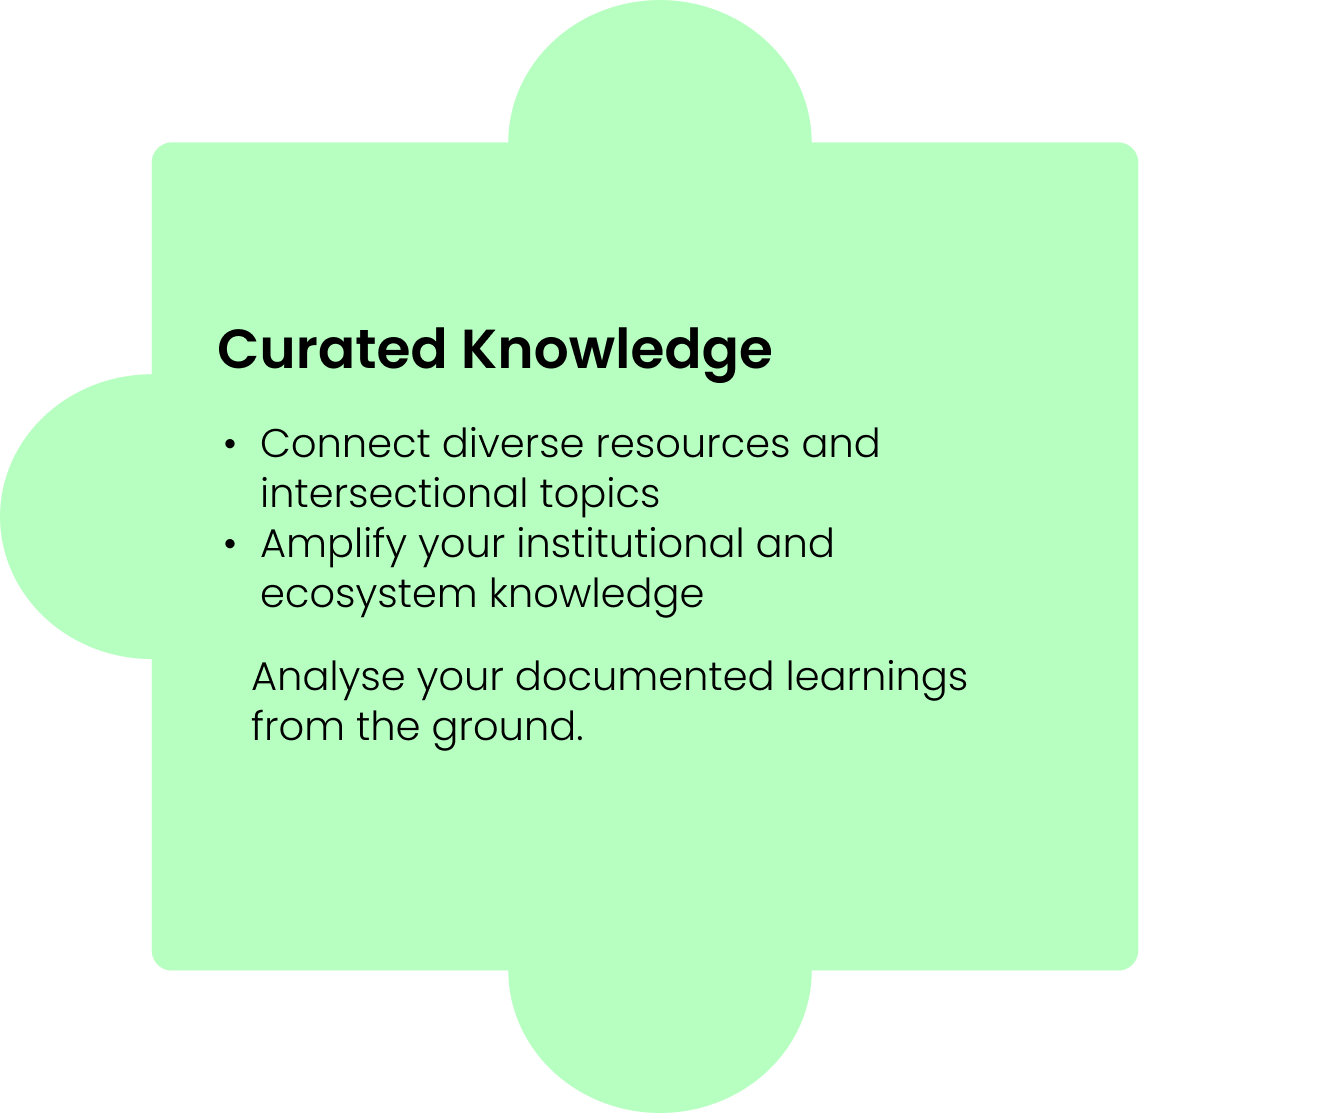
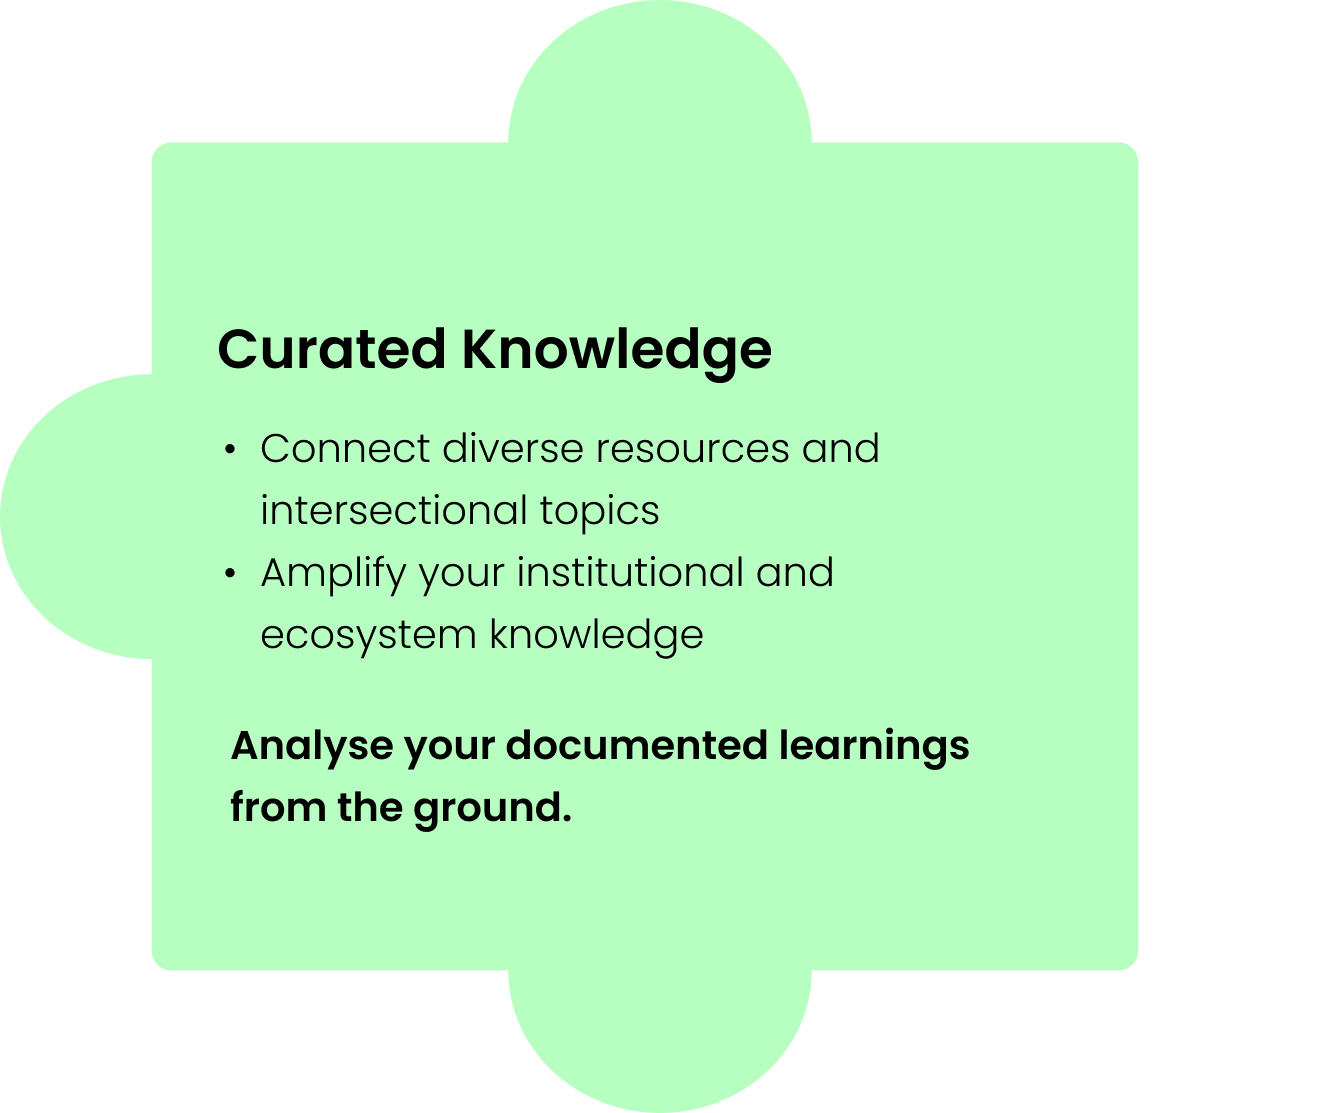
test

Changed region(s): [[0.1543, 0.3666, 0.7404, 0.7637]]

diff --git a/Knowledge-Curation.html b/Knowledge-Curation.html
@@ -202,7 +202,7 @@
               <div class="">
                 <img
                   loading="lazy"
-                  src="source/img/Group 26 (3).png"
+                  src="source/img/Group 26 (4).png"
                   alt=""
                   class="puzzle"
                 />
